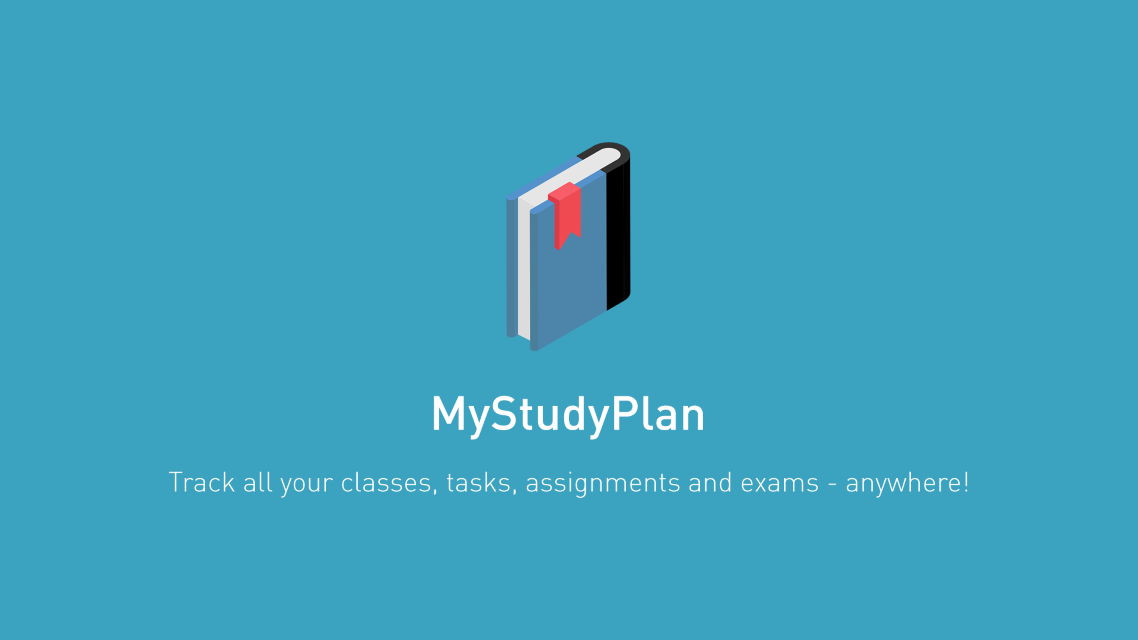
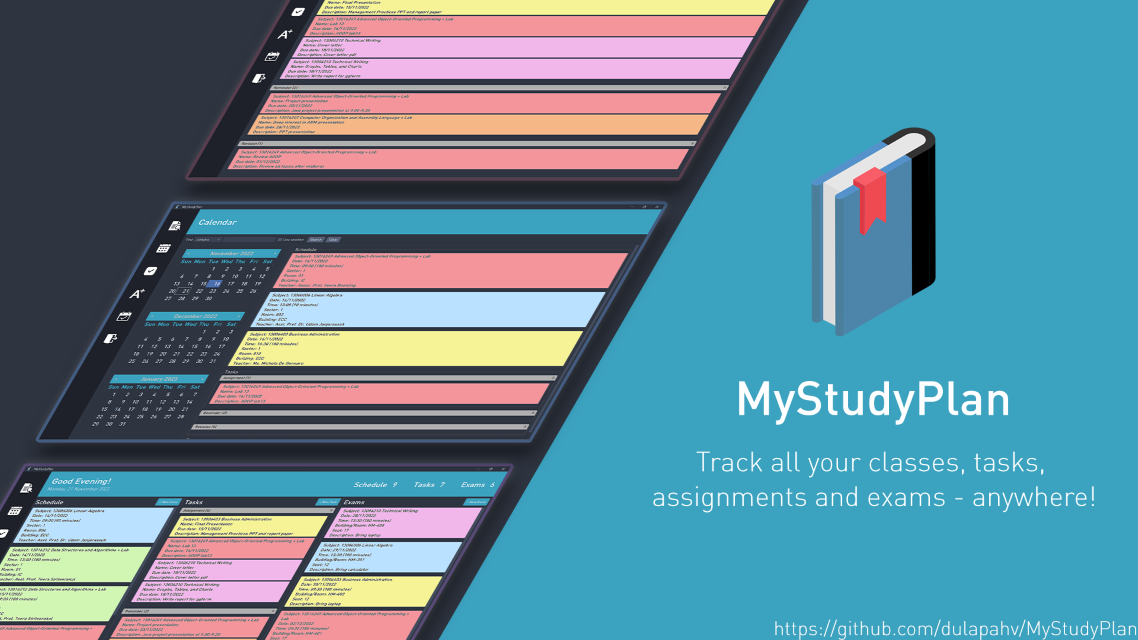
Fix typo in readme, recreate cover picture

diff --git a/README.md b/README.md
@@ -182,7 +182,7 @@ Pressing the `Mark as done` button in [viewing information](#viewing-information
 
 #### Deleting
 
-Pressing the `Mark as done` button in [viewing information](#viewing-information) popup will delete  it from the list.
+Pressing the `Delete` button in [viewing information](#viewing-information) popup will delete  it from the list.
 
 ## License
 
